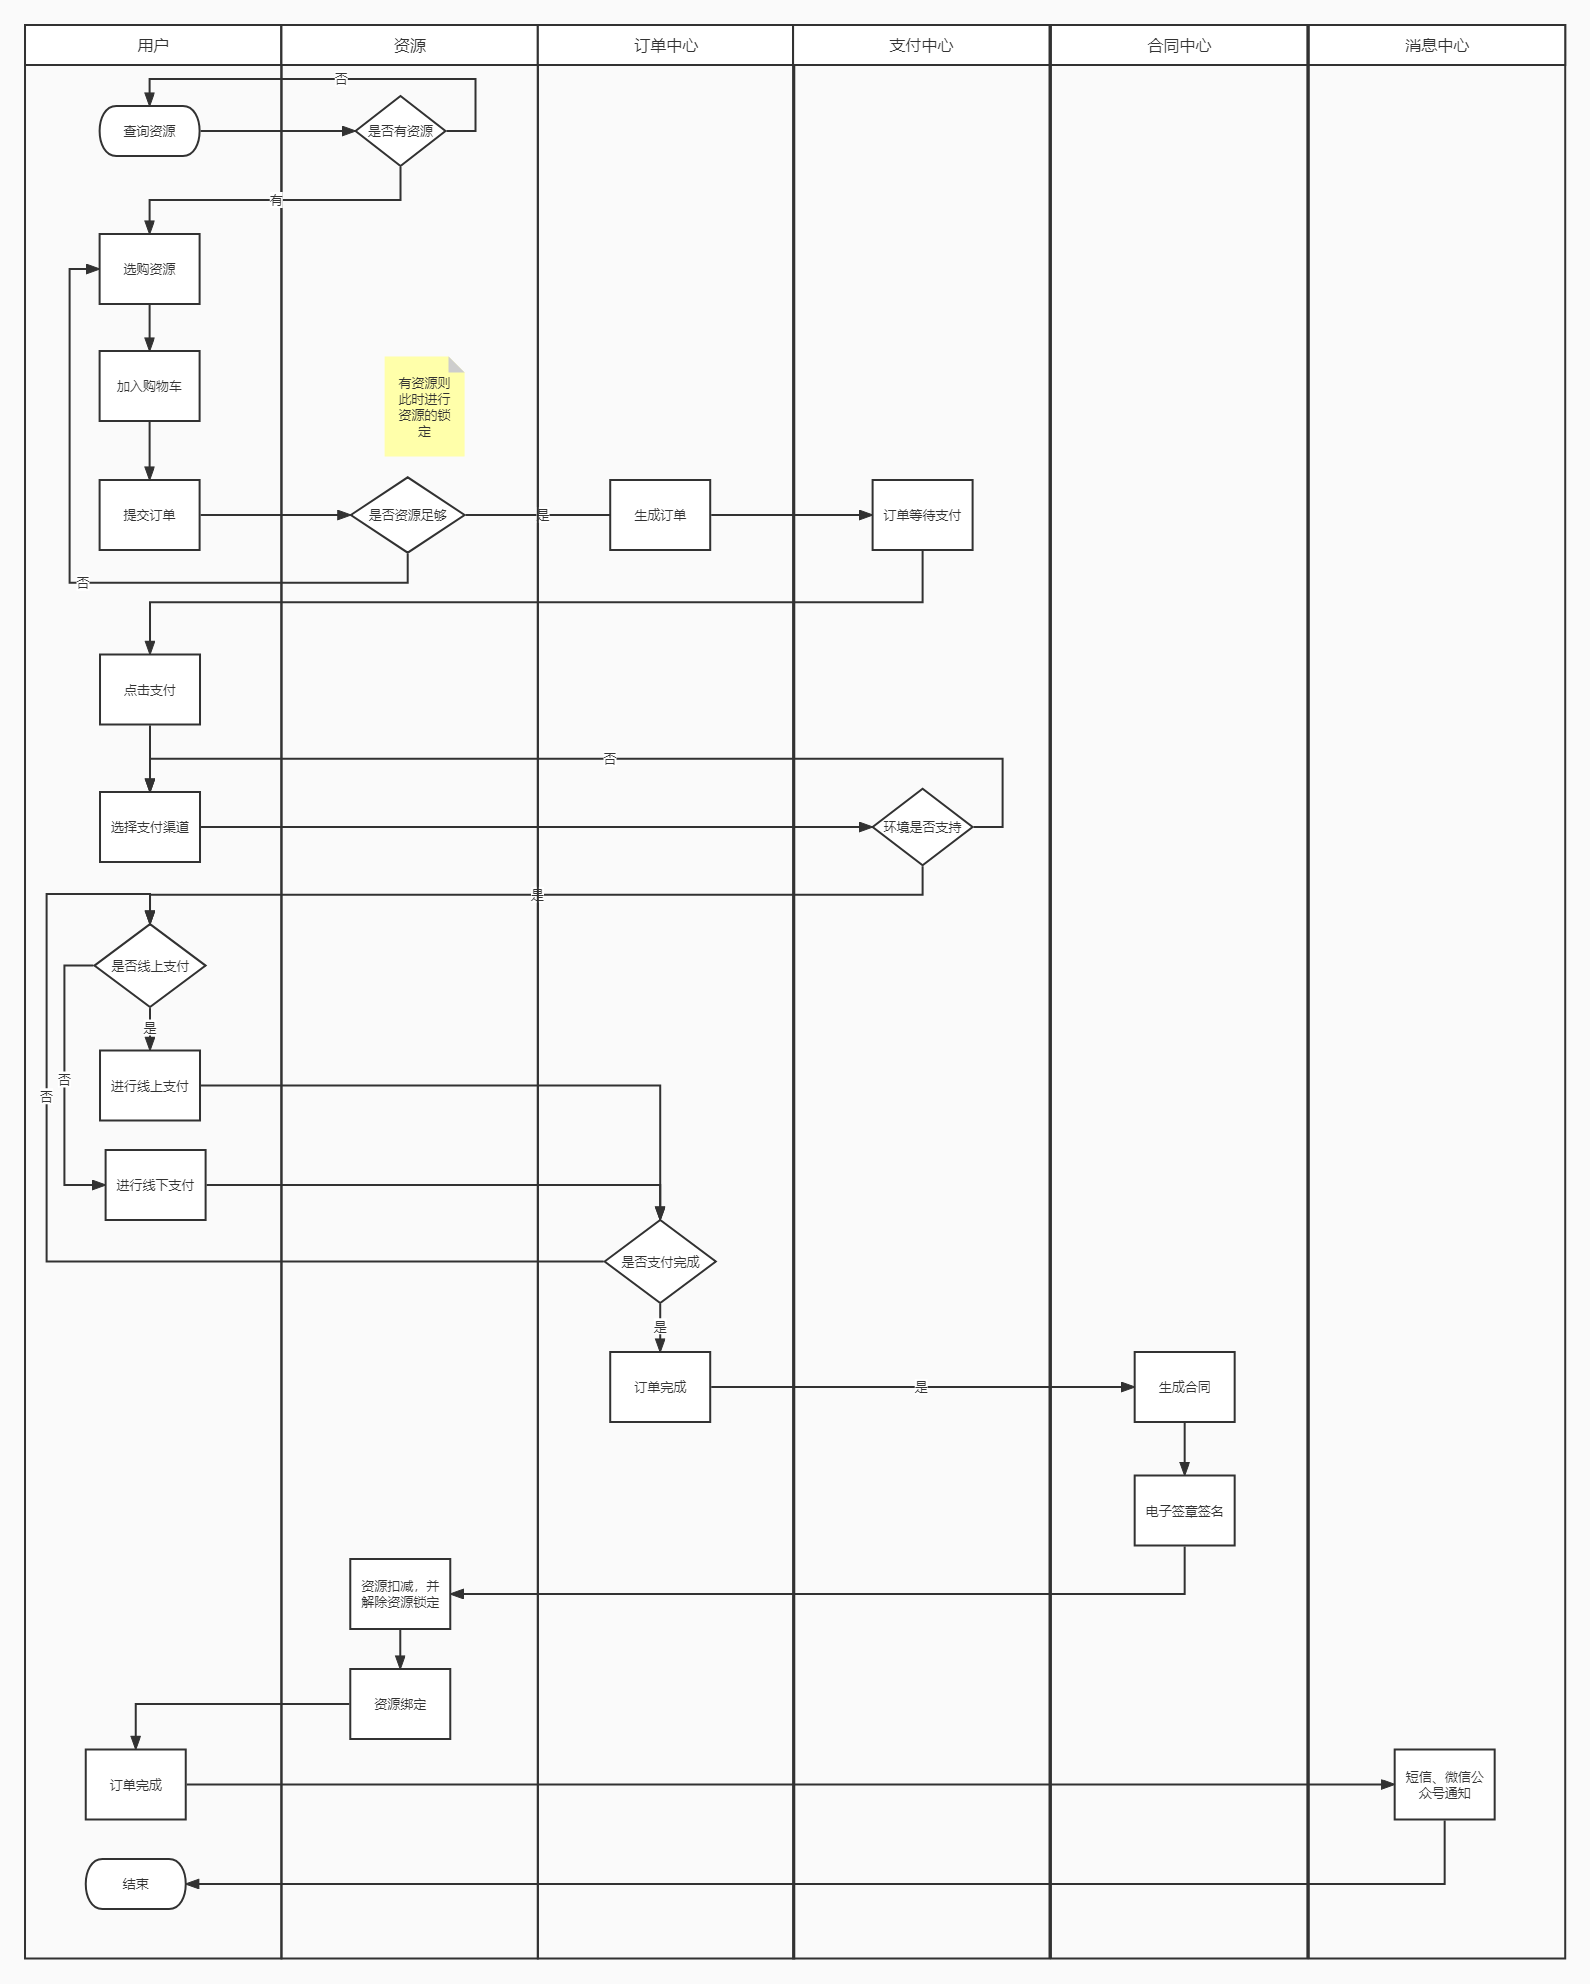
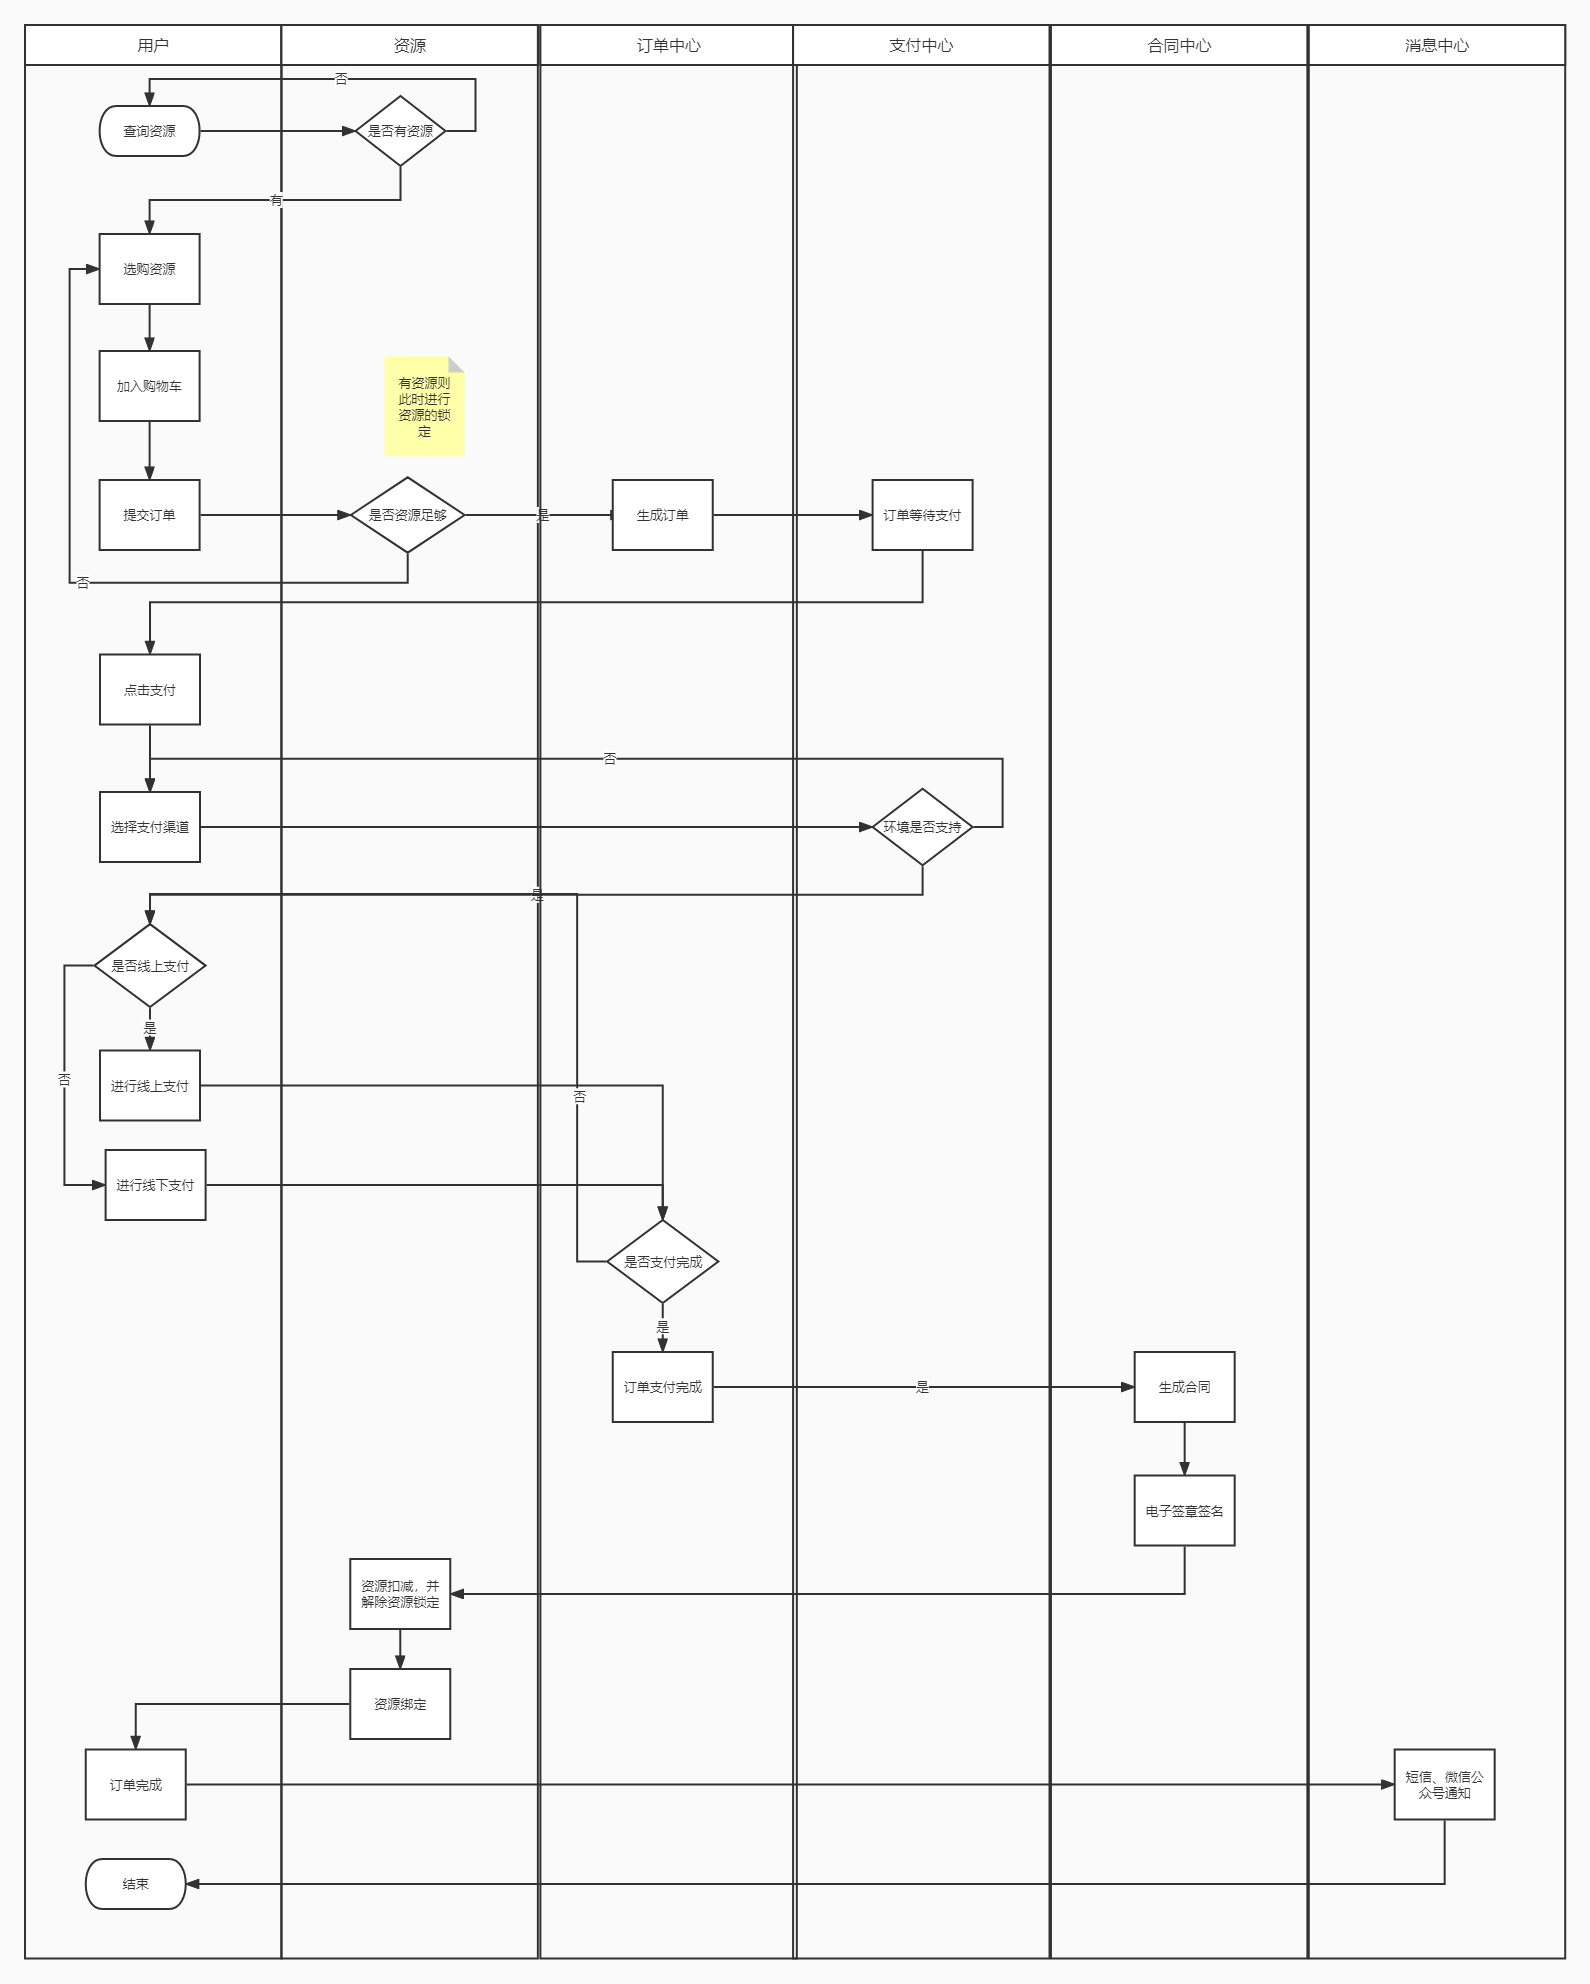
支付计费模块 修改主流程及添加合同创建于取消流程

diff --git a/zh-cn/02-business-flow-chart.md b/zh-cn/02-business-flow-chart.md
@@ -31,6 +31,11 @@
 
 ![](../_media/image/02-business-flow-chart/pay-charge-001.jpg)
 
+
+#### 支付计费合同中心-创建于取消
+
+![](../_media/image/02-business-flow-chart/pay-charge-001.jpg)
+
 ### 数据分析
 
 `待补充`
